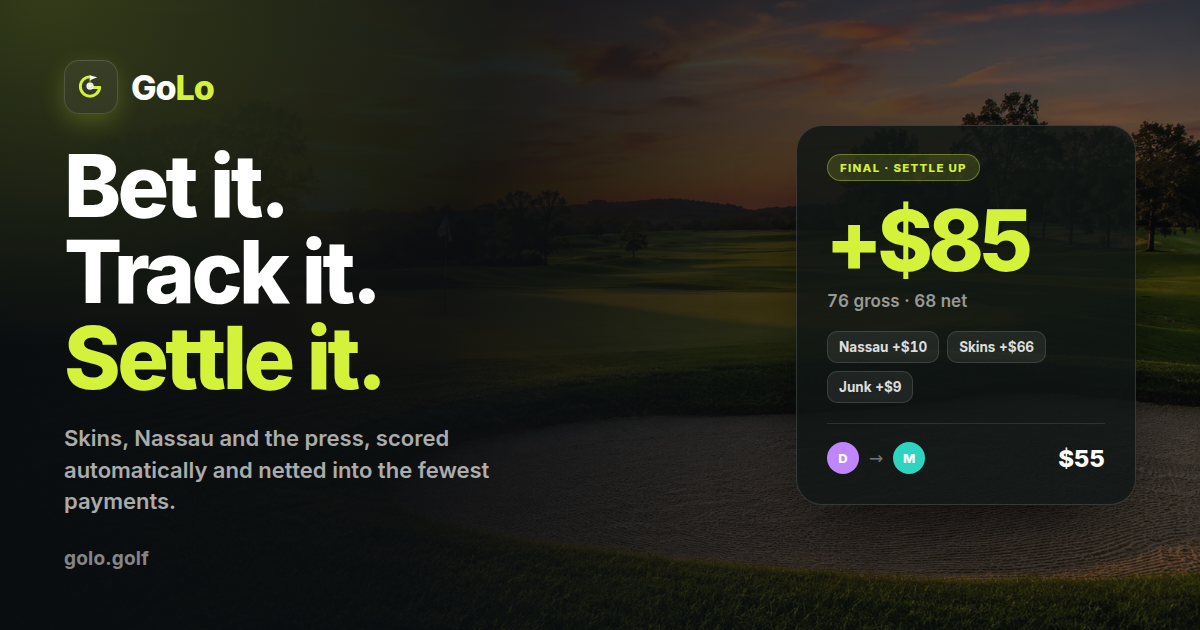
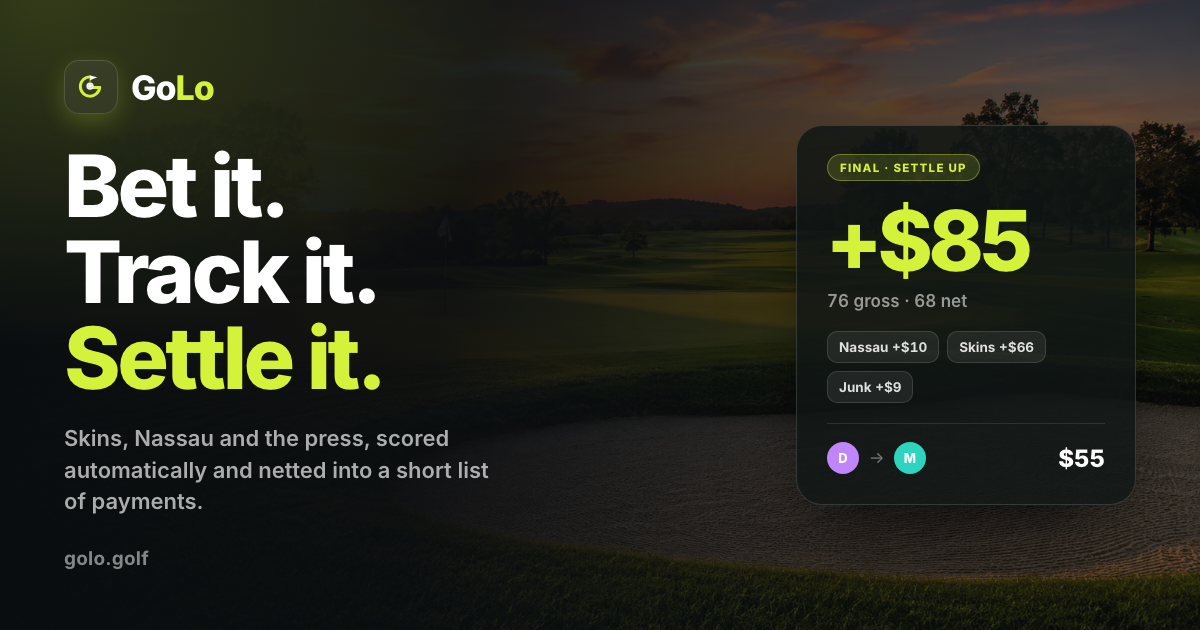
fix(content): review fixes for the settle-up wording
- The share card (og-card.png, every route's default) said "netted into
  the fewest payments". The source is fixed and the PNG re-rendered at
  1200x630.
- The settle-up post's step 3 now matches the app and its own table:
  sort both sides once and work down.
- Overclaims are excused only by claim-ok: the clause-denial logic let
  "Don't send ten Venmos when GoLo finds the fewest payments" through.
  Adds more wordings (fewest transactions, as few payments as possible,
  optimal set of…).
- FAQ: no more "one clean pay-this-person instruction". A player can owe
  two payments.
- docs/outreach.md: the #103 hold on technical pitches is lifted.

diff --git a/lib/content/blog.ts b/lib/content/blog.ts
@@ -788,7 +788,7 @@ export const posts: Post[] = [
       "The settle-up screen is the only screen in GoLo that has to be perfect. Everything before it happens while people are playing golf and forgiving. This one happens in a parking lot, with five people looking at one phone, and it either ends the round cleanly or starts the conversation we built the app to prevent. It took several versions to get right.",
       [
         { id: "math", title: "The math was the easy part", paragraphs: ["Adding up a Nassau, a skins game with carryovers and a junk board is arithmetic. Any computer does it instantly and correctly. What it produces, though, is a pile of debts between pairs of players, game by game — you owe Rick for the front nine, Rick owes Mike two skins, Mike owes you a greenie — and a five-player round with three games running can generate a dozen of them.", "Handing a group twelve separate debts is technically a complete answer and practically useless. Nobody is making twelve payments. So the real job is not the accounting, it is reducing the accounting to the smallest set of transfers that clears it."], blocks: [{ kind: "atAGlance", title: "THE PROBLEM, SIZED", items: [{ label: "PLAYERS", value: "5" }, { label: "BETS RUNNING", value: "Nassau, skins, junk" }, { label: "SEPARATE DEBTS", value: "12" }, { label: "PAYMENTS NEEDED", value: "4" }] }] },
-        { id: "netted", title: "How GoLo works out who pays whom", paragraphs: ["Three steps. First, total every game for every player. Second, net those totals into one number per player — what they are up or down across everything — and those numbers always add up to zero, because every dollar someone is up, someone else is down. Third, pair them off: the player who owes the most pays the player owed the most, as much as one of them needs, and that repeats until every balance is zero.", "Here is one five-player round with three games running, netted and squared. With ties in the numbers, the same round can square up through a different set of payments of the same size:"], blocks: [{ kind: "table", head: ["Player", "Net", "Who pays whom"], rows: [["You", "+$47", "Collect $35 from Rick, $12 from Dave"], ["Mike", "+$18", "Collect $9 from Dave, $9 from Tom"], ["Tom", "−$9", "Pay Mike $9"], ["Dave", "−$21", "Pay you $12, pay Mike $9"], ["Rick", "−$35", "Pay you $35"], ["Settled", "$0", "Four payments, twelve debts cleared"]] }, { kind: "p", html: "Check it: you collect $47, Mike collects $18, and the three players who are down pay exactly what they owe. The nets add up to zero, and nothing is approximated. Four is also the fewest this round allows: no smaller group of players’ numbers adds up to zero on its own, so there is no shortcut." }, { kind: "keyStat", value: "n − 1", label: "The most payments a netted group ever needs: one fewer than the number of players. Every payment clears at least one balance, and because the nets add up to zero, the last one clears two. Five players, four payments at most, no matter how many bets were running. It is a ceiling, not a promise of the minimum: when a few players’ numbers happen to cancel among themselves, they could settle on their own and save a payment, and pairing biggest with biggest doesn’t always spot that." }] },
+        { id: "netted", title: "How GoLo works out who pays whom", paragraphs: ["Three steps. First, total every game for every player. Second, net those totals into one number per player — what they are up or down across everything — and those numbers always add up to zero, because every dollar someone is up, someone else is down. Third, line both sides up biggest first and work down: the top debtor pays the top creditor the smaller of their two balances, whoever is squared drops off the list, and so on until every balance is zero.", "Here is one five-player round with three games running, netted and squared. With ties in the numbers, the same round can square up through a different set of payments of the same size:"], blocks: [{ kind: "table", head: ["Player", "Net", "Who pays whom"], rows: [["You", "+$47", "Collect $35 from Rick, $12 from Dave"], ["Mike", "+$18", "Collect $9 from Dave, $9 from Tom"], ["Tom", "−$9", "Pay Mike $9"], ["Dave", "−$21", "Pay you $12, pay Mike $9"], ["Rick", "−$35", "Pay you $35"], ["Settled", "$0", "Four payments, twelve debts cleared"]] }, { kind: "p", html: "Check it: you collect $47, Mike collects $18, and the three players who are down pay exactly what they owe. The nets add up to zero, and nothing is approximated. Four is also the fewest this round allows: no smaller group of players’ numbers adds up to zero on its own, so there is no shortcut." }, { kind: "keyStat", value: "n − 1", label: "The most payments a netted group ever needs: one fewer than the number of players. Every payment clears at least one balance, and because the nets add up to zero, the last one clears two. Five players, four payments at most, no matter how many bets were running. It is a ceiling, not a promise of the minimum: when a few players’ numbers happen to cancel among themselves, they could settle on their own and save a payment, and pairing biggest with biggest doesn’t always spot that." }] },
         { id: "what-we-tried", title: "What we tried before the payment list", blocks: [{ kind: "steps", items: [
           { title: "The ledger", body: "Every bet, every hole, in order. Completely accurate and far too long. Groups scrolled it, gave up, and asked somebody to say the number out loud." },
           { title: "The matrix", body: "A who-owes-whom grid. Elegant on a whiteboard, unreadable on a phone, and easy to read in the wrong direction." },

diff --git a/lib/content/faq.ts b/lib/content/faq.ts
@@ -144,7 +144,7 @@ export const faqCategories: FaqCategory[] = [
       {
         id: "q-settle",
         q: "How does the settle-up work?",
-        a: "When the last putt drops, GoLo totals every game, figures out who’s up and who’s down, and reduces it to a short list of payments that square the group. Nobody sends four separate payments — you get one clean “pay this person” instruction.",
+        a: "When the last putt drops, GoLo totals every game, figures out who’s up and who’s down, and reduces it to a short list of payments that square the group. Nobody sends a payment per bet — each player gets a short list of who to pay, or who pays them.",
       },
       {
         id: "q-gambling",

diff --git a/lib/content/capabilities.ts b/lib/content/capabilities.ts
@@ -166,6 +166,15 @@ export const capabilities = [
       "minimum number of payments",
       "minimal set of payments",
       "minimal set of transfers",
+      "fewest number of payments",
+      "fewest number of transfers",
+      "fewest transactions",
+      "minimum number of transfers",
+      "minimum number of transactions",
+      "as few payments as possible",
+      "as few transfers as possible",
+      "optimal set of payments",
+      "optimal set of transfers",
     ],
   },
   {

diff --git a/scripts/og-image.html b/scripts/og-image.html
@@ -256,7 +256,7 @@
 
       <div>
         <h1>Bet it.<br>Track it.<br><span class="accent">Settle it.</span></h1>
-        <p class="lead">Skins, Nassau and the press, scored automatically and netted into the fewest payments.</p>
+        <p class="lead">Skins, Nassau and the press, scored automatically and netted into a short list of payments.</p>
       </div>
 
       <span class="domain">golo.golf</span>

diff --git a/docs/outreach.md b/docs/outreach.md
@@ -10,7 +10,7 @@ Specific people and places whose audience would care about GoLo's first-party ma
 
 ## Read before pitching
 
-1. **"Fewest payments."** The post and the site say GoLo settles a round in the fewest payments. The post's own example is a true minimum. In general, though, settling "as much as each payment can" guarantees at most n − 1 payments, not the fewest; the exact minimum is a hard problem. An audience that knows the math (Hacker News, design and dev writers) will spot this. Hold technical pitches until soleman23/golowebsite#103 settles the wording. Golf audiences won't care either way.
+1. **"Fewest payments."** Settled in soleman23/golowebsite#103. GoLo's settle-up is greedy: never more than one payment fewer than the number of players, not always the minimum (finding the true minimum is a hard problem). The site and the post now say "a short list of payments", and keep "fewest" only for the post's worked example, which is minimal. Pitch it the same way. An audience that knows the math (Hacker News, design and dev writers) will respect the caveat, and would catch its absence.
 2. **Competitors are in these spaces too.** Other golf side-game and settle-up apps have posted on the forums below and appeared as podcast guests. That's a reason to lead with the build note's substance, not with the app.
 3. **Contact routes.** This file links to where each route is published instead of copying addresses into a public repo. Several are personal inboxes the hosts list in their show notes. Use them for listener mail as invited, not for a pitch campaign.
 
@@ -35,7 +35,7 @@ Checked October 16, 2026. "Last activity" is the latest date seen then. Re-check
 
 ### Build-in-public and product-design writers
 
-Hold these until the wording in soleman23/golowebsite#103 is settled; see "Read before pitching". Rows 7–9 are communities: use them only if the owner already has an account there and takes part. Don't open an account to post this.
+Pitch the settle-up method with its caveat; see "Read before pitching". Rows 7–9 are communities: use them only if the owner already has an account there and takes part. Don't open an account to post this.
 
 | # | Target | Last activity | Why they'd care | Source page | Contact route |
 |---|---|---|---|---|---|
